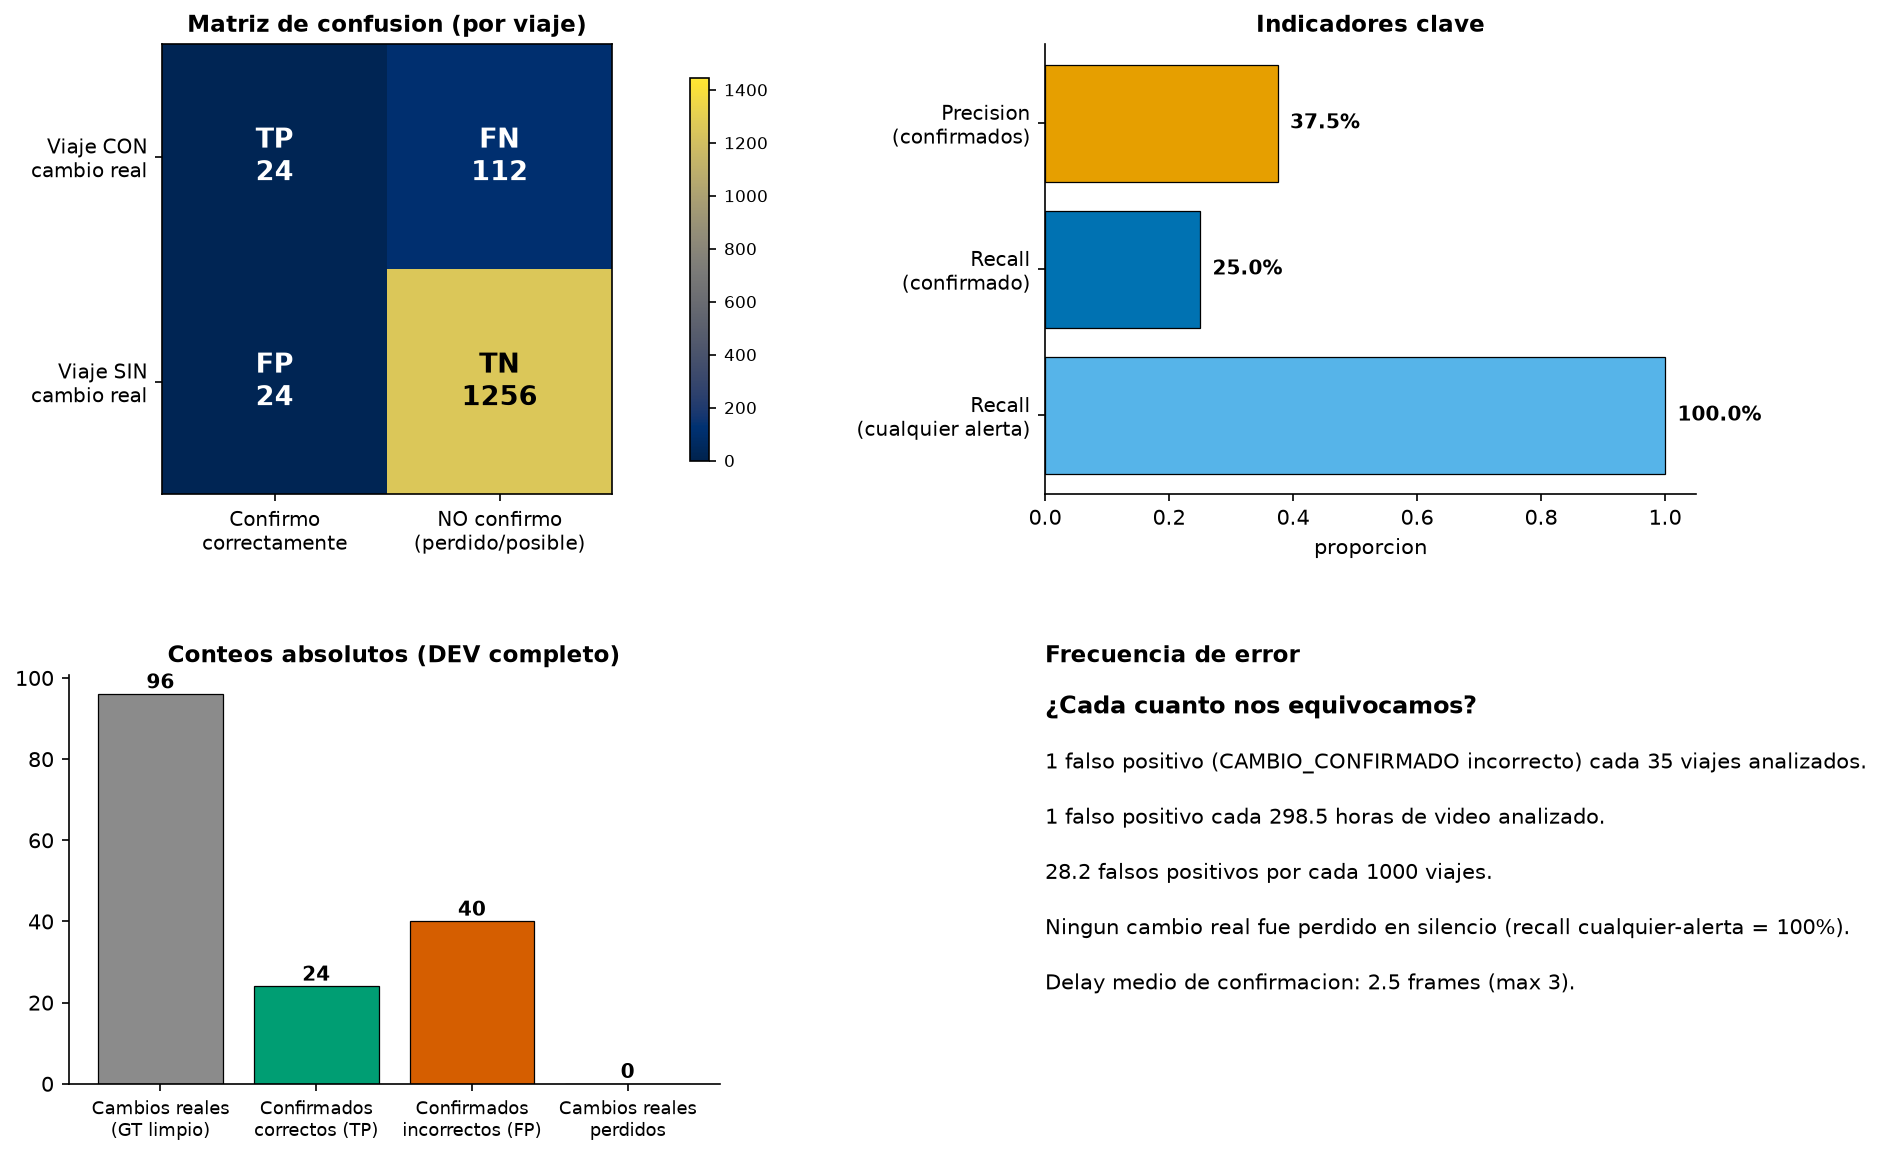
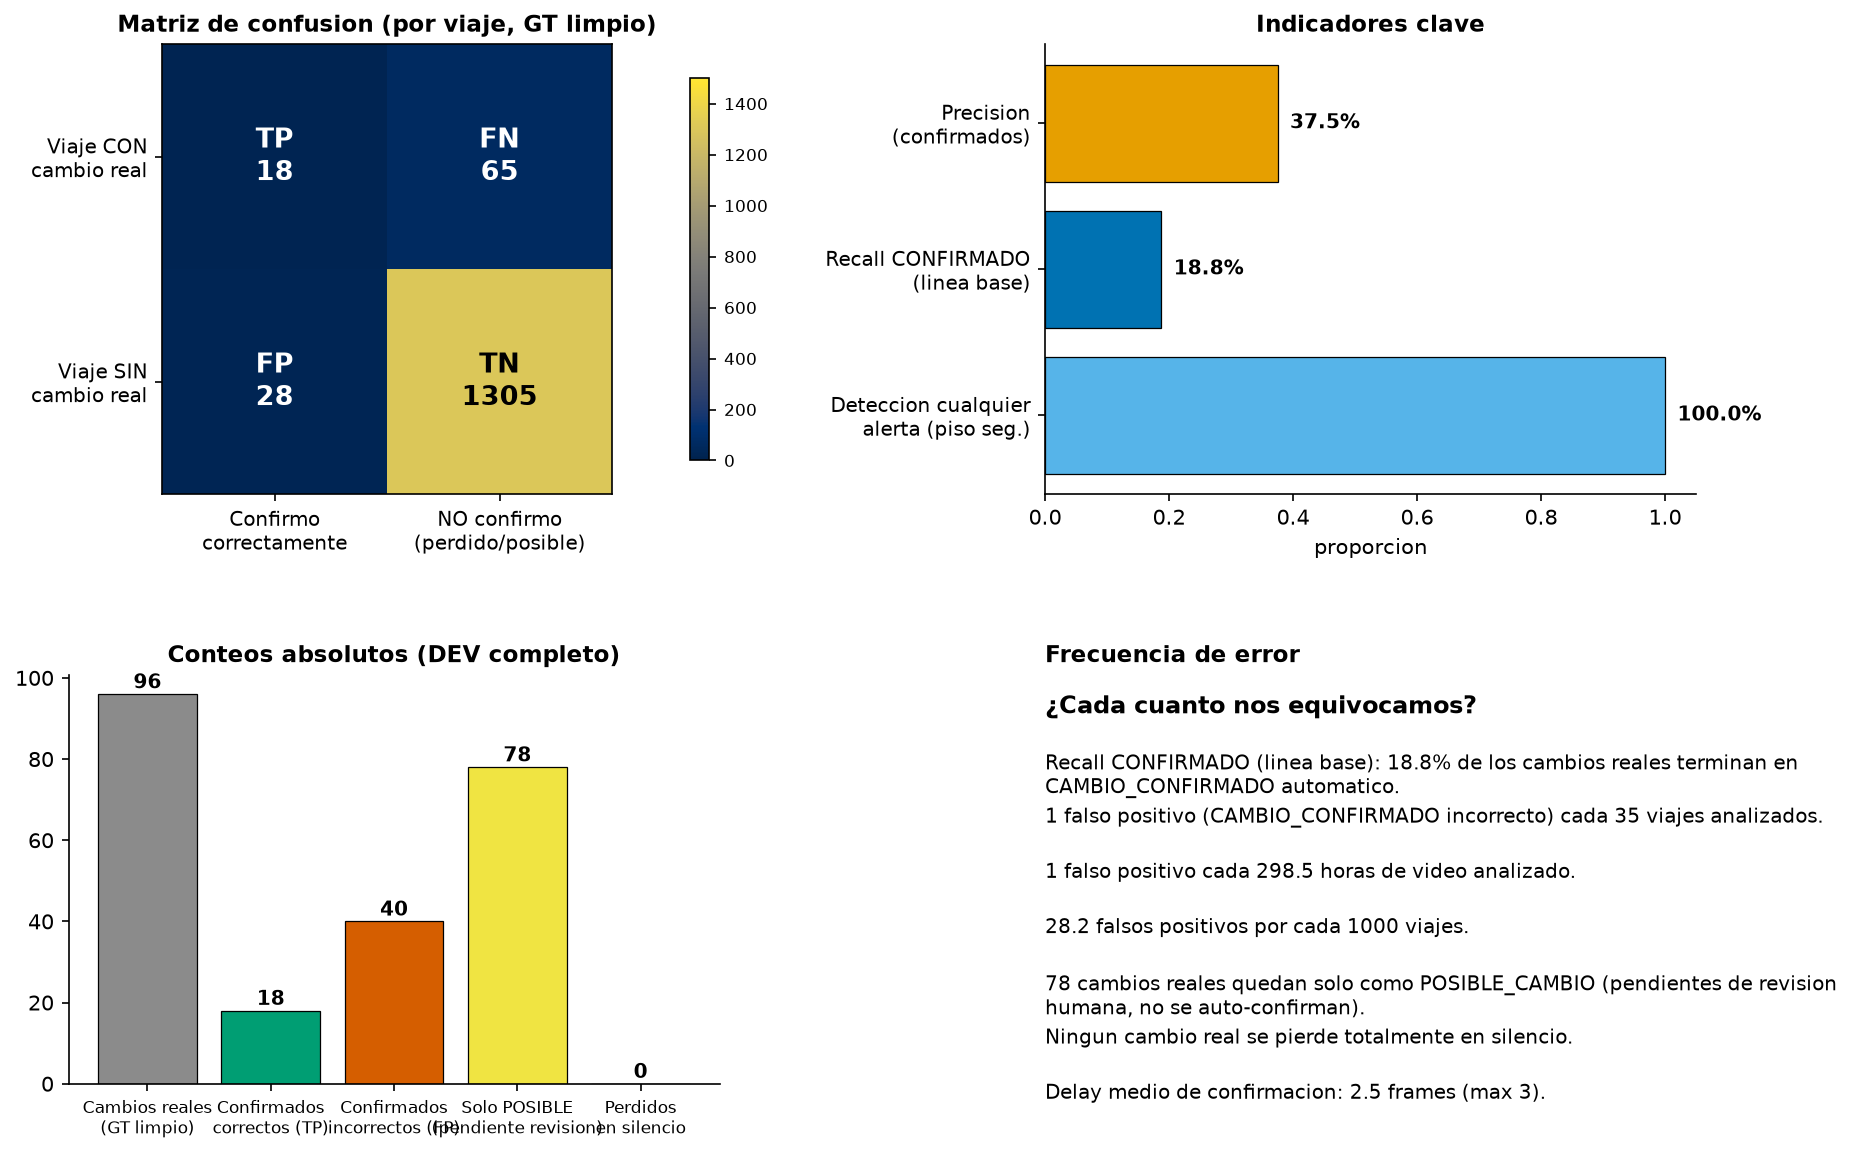
Evaluate cambia la idea de que POSIBLE_CAMBIO se tome como GT

diff --git a/experiments/precision_tuning/metrics_confusion_report.py b/experiments/precision_tuning/metrics_confusion_report.py
@@ -127,7 +127,11 @@ def trip_level_confusion(detail_df, gt_df, cache, window=WINDOW):
         d = detail_df[detail_df["ASSET_ID"] == t]
         confirm_frames = d.loc[d["DECISION_SISTEMA"] == "CAMBIO_CONFIRMADO", "frame_idx"].tolist()
         g = gt_by_trip.get(t)
-        gt_frames = g["frame_idx"].dropna().astype(int).tolist() if g is not None else []
+        # Solo GT limpio (no suspect) cuenta como "cambio real" aqui, para
+        # que esta matriz sea consistente con recall_confirmado (la linea
+        # base): un GT_SUSPECT no es un cambio confirmado por el humano.
+        gt_frames = (g.loc[~g["gt_suspect"], "frame_idx"].dropna().astype(int).tolist()
+                     if g is not None else [])
 
         if gt_frames:
             trips_with_change.add(t)
@@ -186,15 +190,15 @@ def make_dashboard(metrics, conf, freq, out_path):
             txt_color = "white" if sum(luminance) < 1.5 else "black"
             ax0.text(j, i, f"{labels[i,j]}\n{val}", ha="center", va="center",
                      fontsize=13, fontweight="bold", color=txt_color)
-    ax0.set_title("Matriz de confusion (por viaje)", fontsize=11, fontweight="bold")
+    ax0.set_title("Matriz de confusion (por viaje, GT limpio)", fontsize=11, fontweight="bold")
     cbar = fig.colorbar(im, ax=ax0, fraction=0.045, pad=0.12, shrink=0.85)
     cbar.ax.tick_params(labelsize=8)
 
     # ---------- Panel B: KPIs principales (barras horizontales) ----------
     ax1 = fig.add_subplot(gs[0, 1])
-    kpi_names = ["Precision\n(confirmados)", "Recall\n(confirmado)", "Recall\n(cualquier alerta)"]
+    kpi_names = ["Precision\n(confirmados)", "Recall CONFIRMADO\n(linea base)", "Deteccion cualquier\nalerta (piso seg.)"]
     kpi_vals = [metrics["precision_estricta_cambio_confirmado"],
-                metrics["cambio_confirmado_correctos"] / metrics["gt_clean"] if metrics["gt_clean"] else 0.0,
+                metrics["recall_confirmado"],
                 metrics["recall_sin_suspect_cualquier_alerta"]]
     colors = [OI_ORANGE, OI_BLUE, OI_SKY]
     y_pos = np.arange(len(kpi_names))
@@ -211,18 +215,21 @@ def make_dashboard(metrics, conf, freq, out_path):
 
     # ---------- Panel C: conteos crudos (barras) ----------
     ax2 = fig.add_subplot(gs[1, 0])
+    silent_misses = metrics["gt_clean"] - metrics["gt_clean_matched_any"]
+    soft_pending = metrics["gt_clean_matched_any"] - metrics["gt_clean_matched_confirmado"]
     cat_names = ["Cambios reales\n(GT limpio)", "Confirmados\ncorrectos (TP)",
-                 "Confirmados\nincorrectos (FP)", "Cambios reales\nperdidos"]
-    cat_vals = [metrics["gt_clean"], metrics["cambio_confirmado_correctos"],
+                 "Confirmados\nincorrectos (FP)", "Solo POSIBLE\n(pendiente revision)",
+                 "Perdidos\nen silencio"]
+    cat_vals = [metrics["gt_clean"], metrics["gt_clean_matched_confirmado"],
                 metrics["cambio_confirmado_incorrectos_fp_estrictos"],
-                metrics["gt_clean"] - round(metrics["recall_sin_suspect_cualquier_alerta"] * metrics["gt_clean"])]
-    cat_colors = [OI_GREY, OI_GREEN, OI_VERMILLION, OI_PURPLE]
+                soft_pending, silent_misses]
+    cat_colors = [OI_GREY, OI_GREEN, OI_VERMILLION, OI_YELLOW, OI_PURPLE]
     bars = ax2.bar(cat_names, cat_vals, color=cat_colors, edgecolor=OI_BLACK, linewidth=0.6)
     for b, v in zip(bars, cat_vals):
         ax2.text(b.get_x() + b.get_width() / 2, v + max(cat_vals) * 0.015, str(v),
                   ha="center", fontsize=9.5, fontweight="bold")
     ax2.set_title("Conteos absolutos (DEV completo)", fontsize=11, fontweight="bold")
-    ax2.tick_params(axis="x", labelsize=8.5)
+    ax2.tick_params(axis="x", labelsize=8)
     ax2.spines[["top", "right"]].set_visible(False)
 
     # ---------- Panel D: frecuencia de error (texto) ----------
@@ -230,20 +237,24 @@ def make_dashboard(metrics, conf, freq, out_path):
     ax3.axis("off")
     lines = [
         ("¿Cada cuanto nos equivocamos?", True),
+        (f"Recall CONFIRMADO (linea base): {metrics['recall_confirmado']*100:.1f}% de los cambios reales "
+         f"terminan en CAMBIO_CONFIRMADO automatico.", False),
         (f"1 falso positivo (CAMBIO_CONFIRMADO incorrecto) cada "
          f"{freq['trips_per_fp']:.0f} viajes analizados.", False),
         (f"1 falso positivo cada {freq['hours_per_fp']:.1f} horas de video analizado.", False),
         (f"{freq['fp_per_1000_trips']:.1f} falsos positivos por cada 1000 viajes.", False),
-        (f"1 cambio real perdido (ni siquiera quedo como posible) cada "
-         f"{freq['changes_per_miss']:.1f} cambios reales." if freq["changes_per_miss"] else
-         "Ningun cambio real fue perdido en silencio (recall cualquier-alerta = 100%).", False),
+        (f"{freq['soft_pending']} cambios reales quedan solo como POSIBLE_CAMBIO "
+         f"(pendientes de revision humana, no se auto-confirman).", False),
+        (f"1 cambio real perdido totalmente en silencio (ni POSIBLE) cada "
+         f"{freq['changes_per_silent_miss']:.1f} cambios reales." if freq["changes_per_silent_miss"] else
+         "Ningun cambio real se pierde totalmente en silencio.", False),
         (f"Delay medio de confirmacion: {metrics['delay_medio_frames_confirmado']:.1f} frames "
          f"(max {metrics['delay_max_frames_confirmado']:.0f}).", False),
-       
+
     ]
     y = 0.95
     for text, is_title in lines:
-        ax3.text(0.0, y, text, fontsize=11.5 if is_title else 10, fontweight="bold" if is_title else "normal",
+        ax3.text(0.0, y, text, fontsize=11.5 if is_title else 9.5, fontweight="bold" if is_title else "normal",
                   color=OI_BLACK, va="top", wrap=True, transform=ax3.transAxes)
         y -= 0.14 if is_title else 0.135
     ax3.set_title("Frecuencia de error", fontsize=11, fontweight="bold", loc="left")
@@ -277,12 +288,15 @@ def main():
 
     total_hours = total_hours_analyzed(cache)
     fp_total = metrics["cambio_confirmado_incorrectos_fp_estrictos"]
-    misses = metrics["gt_clean"] - round(metrics["recall_sin_suspect_cualquier_alerta"] * metrics["gt_clean"])
+    silent_misses = metrics["gt_clean"] - metrics["gt_clean_matched_any"]
+    soft_pending = metrics["gt_clean_matched_any"] - metrics["gt_clean_matched_confirmado"]
     freq = {
         "trips_per_fp": (n_dev / fp_total) if fp_total else float("inf"),
         "hours_per_fp": (total_hours / fp_total) if fp_total else float("inf"),
         "fp_per_1000_trips": 1000 * fp_total / n_dev,
-        "changes_per_miss": (metrics["gt_clean"] / misses) if misses else 0.0,
+        "soft_pending": soft_pending,
+        "silent_misses": silent_misses,
+        "changes_per_silent_miss": (metrics["gt_clean"] / silent_misses) if silent_misses else 0.0,
         "posible_por_1000_trips": 1000 * metrics["posible_cambio_total"] / n_dev,
         "total_hours_analyzed": total_hours,
     }

diff --git a/experiments/prototype_memory/evaluate.py b/experiments/prototype_memory/evaluate.py
@@ -28,9 +28,18 @@ def _add_frame_idx(detail_df):
 
 
 def evaluate(detail_df, gt_df, window=WINDOW, label="baseline"):
-    """Recall se mide contra CUALQUIER alerta (POSIBLE_CAMBIO o
-    CAMBIO_CONFIRMADO), porque POSIBLE_CAMBIO manda el evento a revision
-    humana y por lo tanto SI "detecta" el cambio (no lo pierde en silencio).
+    """IMPORTANTE: la metrica PRINCIPAL de recall es 'recall_confirmado'
+    (cuantos cambios reales limpios terminan en una alerta CAMBIO_CONFIRMADO,
+    la unica que actua automaticamente sin revision humana). Esa es la
+    linea base a usar para tuning/comparar configs.
+
+    Las metricas 'recall_*_cualquier_alerta' (POSIBLE_CAMBIO o
+    CAMBIO_CONFIRMADO) NO son 'el' recall: son una tasa de deteccion mas
+    laxa que solo dice si el cambio genero *algun* aviso (aunque haya
+    quedado pendiente de revision humana sin auto-confirmarse). Utiles como
+    piso de seguridad ("nada se pierde en silencio"), pero no deben
+    reportarse ni leerse como si fueran el recall real del sistema.
+
     FP estricto se mide SOLO sobre CAMBIO_CONFIRMADO (asi lo pide el
     objetivo): una alerta CAMBIO_CONFIRMADO que no cae cerca de ningun
     evento GT (clean o suspect) es un FP estricto."""
@@ -43,6 +52,7 @@ def evaluate(detail_df, gt_df, window=WINDOW, label="baseline"):
     n_gt_suspect = 0
     n_gt_clean_matched_any = 0
     n_gt_all_matched_any = 0
+    n_gt_clean_matched_confirm = 0
     n_confirmados = 0
     n_posibles = 0
     n_confirmados_correctos = 0
@@ -76,7 +86,13 @@ def evaluate(detail_df, gt_df, window=WINDOW, label="baseline"):
             if af not in matched_confirm_frames:
                 rows_fp.append({'trip_id': trip, 'alert_frame': af})
 
-        # --- RECALL: cualquier alerta (POSIBLE_CAMBIO o CAMBIO_CONFIRMADO) ---
+        # --- RECALL PRINCIPAL (linea base): cambios reales limpios que
+        # terminan en CAMBIO_CONFIRMADO (no cuenta POSIBLE_CAMBIO) ---
+        matches_confirm_clean, _, _ = match_events_window(gt_clean_frames, confirm_frames, window)
+        n_gt_clean_matched_confirm += len(matches_confirm_clean)
+
+        # --- deteccion laxa (piso de seguridad): cualquier alerta,
+        # POSIBLE_CAMBIO o CAMBIO_CONFIRMADO. NO es el recall principal. ---
         matches_any_all, _, _ = match_events_window(gt_all_frames, any_alert_frames, window)
         n_gt_all_matched_any += len(matches_any_all)
         matches_any_clean, _, _ = match_events_window(gt_clean_frames, any_alert_frames, window)
@@ -85,6 +101,7 @@ def evaluate(detail_df, gt_df, window=WINDOW, label="baseline"):
     tp_df = pd.DataFrame(rows_tp)
     fp_df = pd.DataFrame(rows_fp)
 
+    recall_confirmado = n_gt_clean_matched_confirm / n_gt_clean if n_gt_clean else float('nan')
     recall_clean = n_gt_clean_matched_any / n_gt_clean if n_gt_clean else float('nan')
     recall_all = n_gt_all_matched_any / (n_gt_clean + n_gt_suspect) if (n_gt_clean + n_gt_suspect) else float('nan')
     fp_strict = len(fp_df)
@@ -95,10 +112,17 @@ def evaluate(detail_df, gt_df, window=WINDOW, label="baseline"):
         'gt_clean': n_gt_clean,
         'gt_suspect': n_gt_suspect,
         'gt_total': n_gt_clean + n_gt_suspect,
+        # METRICA PRINCIPAL (linea base): de los cambios reales limpios,
+        # cuantos terminaron en CAMBIO_CONFIRMADO (automatico, sin revision).
+        'recall_confirmado': recall_confirmado,
+        'gt_clean_matched_confirmado': n_gt_clean_matched_confirm,
+        'gt_clean_matched_any': n_gt_clean_matched_any,
         'cambio_confirmado_total': n_confirmados,
         'cambio_confirmado_correctos': n_confirmados_correctos,
         'cambio_confirmado_incorrectos_fp_estrictos': fp_strict,
         'posible_cambio_total': n_posibles,
+        # Deteccion laxa (POSIBLE_CAMBIO o CAMBIO_CONFIRMADO). NO es 'el'
+        # recall: es un piso de seguridad ("nada se pierde en silencio").
         'recall_sin_suspect_cualquier_alerta': recall_clean,
         'recall_con_suspect_cualquier_alerta': recall_all,
         'precision_estricta_cambio_confirmado': precision_strict,
@@ -119,6 +143,7 @@ if __name__ == "__main__":
         gt['gt_suspect'] = gt['gt_suspect'].astype(bool)
         m, tp, fp = evaluate(detail, gt, label=f"baseline_{name}")
         print(f"\n=== {name} ===")
+        print(f"  >>> recall_confirmado (LINEA BASE): {m['recall_confirmado']}")
         for k, v in m.items():
             print(f"  {k}: {v}")
         fp.to_csv(os.path.join(DATA_DIR, f"baseline_fp_{name}.csv"), index=False)
